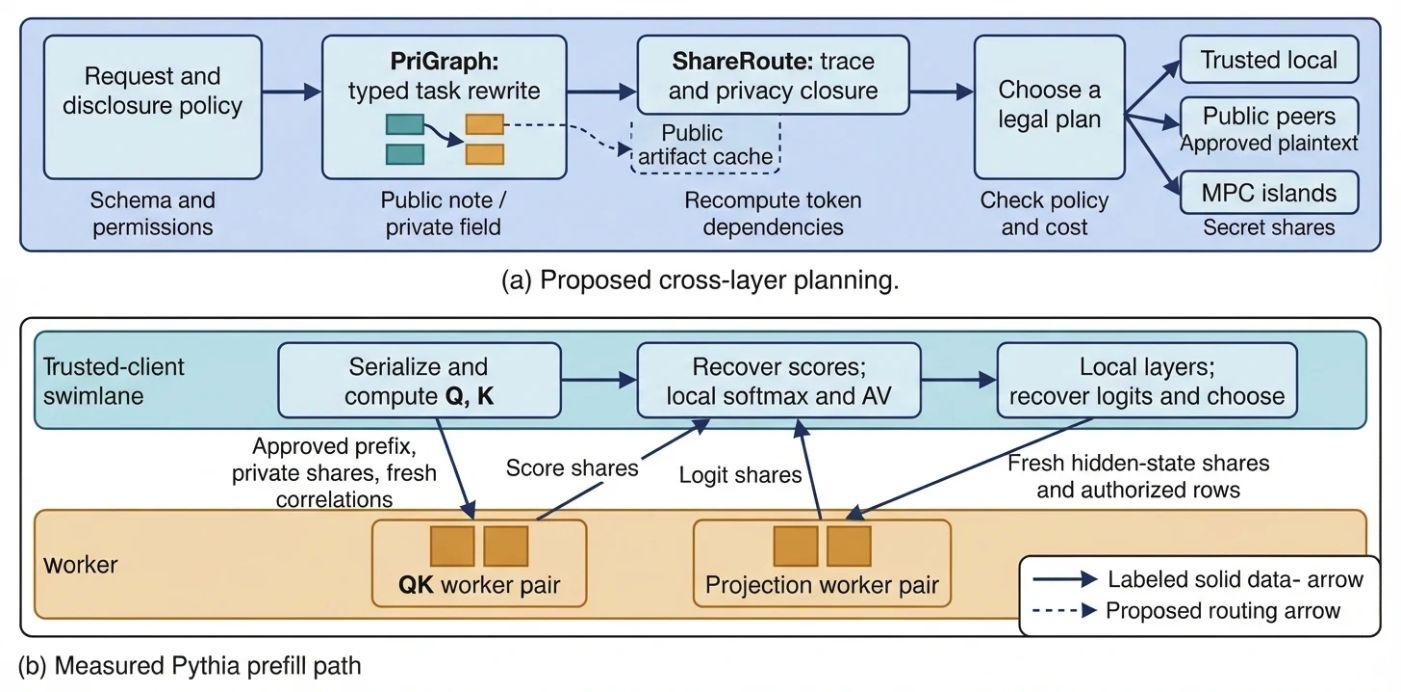
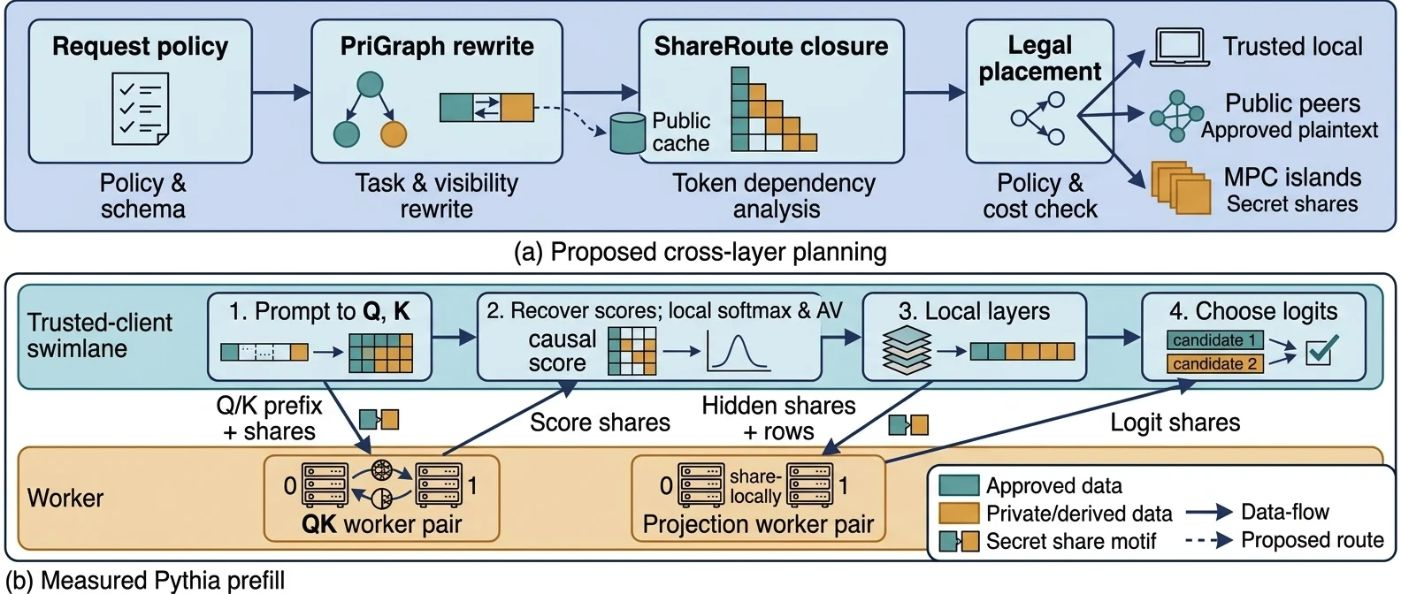
Use schematic glyphs in the system overview

diff --git a/figures/compiler.tex b/figures/compiler.tex
@@ -1,89 +1,205 @@
 \begin{tikzpicture}[
-  x=1cm,y=1cm,
-  font=\sffamily\fontsize{8}{9.4}\selectfont,
+  x=1cm,y=.96cm,
+  font=\sffamily\fontsize{8}{9.3}\selectfont,
   ink/.style={text=black!87},
   panel/.style={anchor=west,ink,font=\sffamily\bfseries\fontsize{9}{10}\selectfont},
-  detail/.style={ink,font=\sffamily\fontsize{7.4}{8.5}\selectfont},
+  detail/.style={ink,font=\sffamily\fontsize{7.3}{8.5}\selectfont},
   tile/.style={rounded corners=1.5pt,semithick,align=center,ink,inner sep=2pt},
-  stage/.style={tile,draw=routeLocal!80,fill=white,text width=2.43cm,minimum height=8mm},
-  route/.style={tile,minimum height=6.8mm,minimum width=2.05cm},
-  worker/.style={tile,draw=routeSecure!80,fill=white,minimum width=1.12cm,minimum height=3.6mm},
-  token/.style={tile,ink,font=\sffamily\fontsize{7}{8}\selectfont,
-                minimum width=5.5mm,minimum height=3.1mm,inner sep=.7pt},
-  flow/.style={semithick,-{Stealth[length=1.9mm]},draw=routeLocal},
+  stage/.style={tile,draw=routeLocal!80,fill=white,text width=2.43cm,minimum height=10mm},
+  stage label/.style={ink,font=\sffamily\bfseries\fontsize{8}{9.3}\selectfont},
+  route tile/.style={tile,minimum height=6.8mm,minimum width=2.14cm},
+  route label/.style={stage label,anchor=west,inner sep=1pt,
+                       font=\sffamily\bfseries\fontsize{7.3}{8.5}\selectfont},
+  glyph/.style={semithick,draw=routeLocal,rounded corners=.5pt},
+  approved/.style={glyph,draw=routePublic,fill=routePublic!24},
+  private/.style={glyph,draw=routeSecure,fill=routeSecure!17},
+  share/.style={glyph,draw=routeSecure!90!black,fill=white},
+  flow/.style={semithick,-{Stealth[length=1.8mm]},draw=routeLocal},
   plan/.style={flow,dashed},
-  wire/.style={flow,draw=routeSecure!94!black}]
+  wire/.style={flow,draw=routeSecure!94!black},
+  micro flow/.style={flow,-{Stealth[length=1.05mm]}},
+  pics/note/.style={code={
+    \draw[approved] (-.18,-.15) -- (-.18,.15) -- (.09,.15) -- (.18,.06) -- (.18,-.15) -- cycle;
+    \draw[glyph,draw=routePublic] (.09,.15) |- (.18,.06) (-.11,-.03) -- (.10,-.03) (-.11,-.09) -- (.07,-.09);
+  }},
+  pics/value/.style={code={
+    \draw[private] (-.18,-.15) rectangle (.18,.15);
+    \draw[routeSecure,thin] (-.13,-.08) -- (.01,.09) (-.04,-.09) -- (.11,.09) (.06,-.09) -- (.13,-.01);
+  }},
+  pics/share/.style={code={
+    \draw[share] (-.15,-.085) rectangle (.15,.085);
+    \draw[routeSecure,thin] (-.03,-.085) -- (.03,.085);
+  }},
+  pics/rack/.style={code={
+    \draw[share] (-.25,-.16) rectangle (.25,.16);
+    \draw[routeSecure,thin] (-.25,0) -- (.25,0) (-.07,.08) -- (.17,.08) (-.07,-.08) -- (.17,-.08);
+    \fill[routeSecure] (-.16,.08) circle (.023) (-.16,-.08) circle (.023);
+  }}]
 
 \node[panel] at (.04,0) {(a) Proposed cross-layer planning};
 \draw[rounded corners=2pt,semithick,draw=routeLocal!70,fill=routeLocal!5]
-  (0,-.25) rectangle (12.12,-2.41);
-
-\node[stage] (request) at (1.49,-.82) {\textbf{Request policy}\\Schema and rights};
-\node[stage,text width=2.50cm] (rewrite) at (4.54,-.82) {};
-\node[ink,font=\sffamily\bfseries\fontsize{8}{9.4}\selectfont] at (4.54,-.65) {PriGraph rewrite};
-\node[token,draw=routeSecure!70,fill=routeSecure!17] at (3.55,-.99) {Value};
-\node[token,draw=routePublic!70,fill=routePublic!16] at (4.15,-.99) {Note};
-\draw[flow,-{Stealth[length=1.35mm]}] (4.45,-.99) -- (4.64,-.99);
-\node[token,draw=routePublic!70,fill=routePublic!16] at (4.94,-.99) {Note};
-\node[token,draw=routeSecure!70,fill=routeSecure!17] at (5.54,-.99) {Value};
-\node[stage] (closure) at (7.59,-.82) {\textbf{ShareRoute}\\Operator closure};
-\node[stage] (choose) at (10.64,-.82) {\textbf{Select a legal plan}\\Policy and cost};
+  (0,-.25) rectangle (12.12,-2.49);
+\node[stage] (request) at (1.49,-.91) {};
+\node[stage] (rewrite) at (4.54,-.91) {};
+\node[stage] (closure) at (7.59,-.91) {};
+\node[stage] (choose) at (10.64,-.91) {};
 \draw[flow] (request) -- (rewrite);
 \draw[flow] (rewrite) -- (closure);
 \draw[flow] (closure) -- (choose);
+\node[stage label] at (1.49,-1.24) {Request policy};
+\node[stage label] at (4.54,-1.24) {PriGraph rewrite};
+\node[stage label] at (7.59,-1.24) {ShareRoute closure};
+\node[stage label] at (10.64,-1.24) {Select a legal plan};
 
-\node[tile,draw=routePublic!85,dashed,fill=routePublic!7,minimum width=2.96cm,minimum height=6.8mm]
-  (cache) at (2.33,-1.97) {\textbf{Public artifact cache}\\Keys from public data};
-\node[route,draw=routeLocal!80,fill=routeLocal!9]
-  (local) at (6.12,-1.97) {\textbf{Trusted local}\\Client compute};
-\node[route,draw=routePublic!85,fill=routePublic!10]
-  (public) at (8.48,-1.97) {\textbf{Public peers}\\Approved plaintext};
-\node[route,draw=routeSecure!90,fill=routeSecure!12]
-  (islands) at (10.84,-1.97) {\textbf{MPC islands}\\Secret shares};
-\draw[plan,draw=routePublic] (rewrite.south) -- (4.54,-1.38) -| (cache.north);
-\draw[plan] (choose.south) -- (10.64,-1.39) -| (local.north);
-\draw[plan,draw=routePublic] (8.48,-1.39) -- (public.north);
-\draw[plan,draw=routeSecure] (10.64,-1.39) -| (islands.north);
+\begin{scope}[shift={(1.49,-.78)}]
+  \draw[glyph,fill=routeLocal!8] (-.36,-.23) -- (-.36,.23) -- (.21,.23) -- (.36,.08) -- (.36,-.23) -- cycle;
+  \draw[glyph] (.21,.23) |- (.36,.08) (-.08,.085) -- (.13,.085) (-.08,-.035) -- (.18,-.035) (-.08,-.155) -- (.18,-.155);
+  \draw[routePublic,semithick] (-.25,.09) -- (-.21,.05) -- (-.14,.12)
+    (-.25,-.03) -- (-.21,-.07) -- (-.14,0) (-.25,-.15) -- (-.21,-.19) -- (-.14,-.12);
+\end{scope}
+\pic at (3.73,-.78) {value};
+\pic at (4.14,-.78) {note};
+\draw[micro flow] (4.37,-.78) -- (4.71,-.78);
+\pic at (4.94,-.78) {note};
+\pic at (5.35,-.78) {value};
+\begin{scope}[shift={(7.59,-.79)}]
+  \draw[micro flow] (-.65,.14) -- (-.22,.14);
+  \draw[micro flow] (-.71,-.12) -- (-.22,-.16);
+  \draw[micro flow] (-.11,.06) -- (.20,-.10);
+  \draw[micro flow] (-.04,-.16) -- (.20,-.16);
+  \draw[micro flow] (.36,-.16) -- (.64,-.16);
+  \draw[approved] (-.73,.14) circle (.075) (-.14,.14) circle (.075);
+  \draw[private] (-.78,-.19) rectangle (-.64,-.05)
+    (-.20,-.23) rectangle (-.06,-.09) (.21,-.23) rectangle (.35,-.09)
+    (.65,-.23) rectangle (.79,-.09);
+\end{scope}
+\begin{scope}[shift={(10.64,-.78)}]
+  \draw[glyph,fill=routeLocal!8] (-.19,.22) rectangle (.19,.01);
+  \draw[routePublic,semithick] (-.08,.12) -- (-.025,.07) -- (.08,.17);
+  \draw[glyph] (0,.01) -- (0,-.09) (-.55,-.09) -- (.55,-.09);
+  \draw[micro flow] (-.55,-.09) -- (-.55,-.24);
+  \draw[micro flow,draw=routePublic] (0,-.09) -- (0,-.24);
+  \draw[micro flow,draw=routeSecure] (.55,-.09) -- (.55,-.24);
+\end{scope}
 
-\node[panel] at (.04,-2.67) {(b) Measured Pythia prefill\enspace\mdseries (TCP loopback, selective route)};
+\node[route tile,draw=routePublic!85,dashed,fill=routePublic!7,minimum width=3.23cm]
+  (cache) at (2.33,-2.07) {};
+\node[route tile,draw=routeLocal!80,fill=routeLocal!9] (local) at (6.12,-2.07) {};
+\node[route tile,draw=routePublic!85,fill=routePublic!10] (public) at (8.48,-2.07) {};
+\node[route tile,draw=routeSecure!90,fill=routeSecure!12] (islands) at (10.84,-2.07) {};
+\draw[plan,draw=routePublic] (rewrite.south) -- (4.54,-1.53) -| (cache.north);
+\draw[plan] (choose.south) -- (10.64,-1.53) -| (local.north);
+\draw[plan,draw=routePublic] (8.48,-1.53) -- (public.north);
+\draw[plan,draw=routeSecure] (10.64,-1.53) -| (islands.north);
+\begin{scope}[shift={(1.13,-2.07)}]
+  \draw[approved] (-.18,.13) arc (180:360:.18 and .061) -- (.18,-.13)
+    arc (0:-180:.18 and .061) -- cycle;
+  \draw[approved] (0,.13) ellipse (.18 and .061);
+  \draw[routePublic,thin] (-.18,-.035) arc (180:360:.18 and .061);
+\end{scope}
+\node[route label] at (1.44,-2.07) {Public artifact cache};
+\begin{scope}[shift={(5.36,-2.07)}]
+  \draw[glyph,fill=white] (-.17,-.08) rectangle (.17,.13);
+  \draw[glyph,fill=routeLocal!25] (-.17,-.08) -- (-.23,-.15) -- (.23,-.15) -- (.17,-.08) -- cycle;
+\end{scope}
+\node[route label] at (5.64,-2.07) {Trusted local};
+\begin{scope}[shift={(7.76,-2.07)}]
+  \draw[routePublic,semithick] (-.16,-.09) -- (0,.12) -- (.16,-.09) -- cycle;
+  \draw[approved] (-.16,-.09) circle (.065) (0,.12) circle (.065) (.16,-.09) circle (.065);
+\end{scope}
+\node[route label] at (8.02,-2.07) {Public peers};
+\pic at (10.16,-2.07) {share};
+\node[route label] at (10.37,-2.07) {MPC islands};
+
+\node[panel] at (.04,-2.81) {(b) Measured Pythia prefill\enspace\mdseries (TCP loopback, selective route)};
 \draw[rounded corners=2pt,semithick,draw=routeLocal!70,fill=routeLocal!6]
-  (0,-2.93) rectangle (12.12,-4.18);
-\node[detail,anchor=west,text=routeLocal,font=\sffamily\bfseries\fontsize{7.4}{8.5}\selectfont]
-  at (.16,-3.09) {Trusted client and dealer};
-\node[stage] (qkInput) at (1.49,-3.68) {\textbf{Serialize prompt}\\Post-RoPE $Q,K$};
-\node[stage] (qkOutput) at (4.54,-3.68) {\textbf{Restore QK scores}\\Softmax and $AV$};
-\node[stage] (hidden) at (7.59,-3.68) {\textbf{Finish prefill}\\Quantize final state};
-\node[stage] (label) at (10.64,-3.68) {\textbf{Restore logits}\\Choose label};
+  (0,-3.07) rectangle (12.12,-4.58);
+\node[stage label,anchor=west,text=routeLocal] at (.16,-3.24) {Trusted client and dealer};
+\node[stage] (qkInput) at (1.49,-4.00) {};
+\node[stage] (qkOutput) at (4.54,-4.00) {};
+\node[stage] (hidden) at (7.59,-4.00) {};
+\node[stage] (label) at (10.64,-4.00) {};
 \draw[flow] (qkOutput) -- (hidden);
+\node[stage label] at (1.49,-4.33) {Prompt to $Q,K$};
+\node[stage label] at (4.54,-4.33) {Softmax and $AV$};
+\node[stage label] at (7.59,-4.33) {Finish prefill};
+\node[stage label] at (10.64,-4.33) {Choose label};
+
+\begin{scope}[shift={(1.49,-3.88)}]
+  \foreach \i in {0,1} {\draw[approved] ({-.89+.24*\i},-.12) rectangle ++(.19,.24);}
+  \draw[private] (-.41,-.12) rectangle ++(.19,.24);
+  \draw[routeSecure,thin] (-.38,-.075) -- (-.25,.075);
+  \draw[micro flow] (-.13,0) -- (.16,0);
+  \node[stage label,draw=routeLocal!75,rounded corners=.5pt,fill=routeLocal!10,inner sep=1.5pt] at (.38,0) {$Q$};
+  \node[stage label,draw=routeLocal!75,rounded corners=.5pt,fill=routeLocal!10,inner sep=1.5pt] at (.75,0) {$K$};
+\end{scope}
+\begin{scope}[shift={(4.54,-3.85)}]
+  \foreach \row in {0,...,3} {\foreach \col in {0,...,3} {
+    \ifnum\col>\row
+      \draw[black!23,line width=.25pt] ({-.62+.12*\col},{.245-.12*\row}) rectangle ++(.10,-.10);
+    \else
+      \draw[routeLocal!70,fill=routeLocal!26,line width=.25pt]
+        ({-.62+.12*\col},{.245-.12*\row}) rectangle ++(.10,-.10);
+    \fi
+  }}
+  \draw[micro flow] (-.02,0) -- (.30,0);
+  \foreach \i in {0,1,2} {\fill[routeLocal!85] ({.45+.14*\i},0) circle (.043);}
+\end{scope}
+\begin{scope}[shift={(7.59,-3.88)}]
+  \foreach \i in {0,1,2} {
+    \draw[glyph,fill=routeLocal!11] ({-.62+.065*\i},{-.19+.105*\i})
+      rectangle ++(.55,.17);
+  }
+  \draw[micro flow] (.16,0) -- (.45,0);
+  \node[stage label] at (.64,0) {$\widehat{h}$};
+\end{scope}
+\begin{scope}[shift={(10.64,-3.89)}]
+  \draw[glyph,fill=routeLocal!18] (-.55,.065) rectangle (.09,.18);
+  \draw[glyph,fill=routeLocal!44] (-.55,-.14) rectangle (.37,-.025);
+  \draw[routeLocal,semithick] (.49,-.09) -- (.56,-.15) -- (.69,-.035);
+\end{scope}
 
 \draw[rounded corners=2pt,semithick,draw=routeSecure!80,fill=routeSecure!9]
-  (.29,-5.24) rectangle (5.75,-6.15);
+  (.29,-5.62) rectangle (5.75,-6.48);
 \draw[rounded corners=2pt,semithick,draw=routeSecure!80,fill=routeSecure!9]
-  (6.38,-5.24) rectangle (11.84,-6.15);
-\node[ink] at (3.02,-5.42) {\textbf{QK worker pair}\enspace Single-head scores};
-\node[ink] at (9.11,-5.42) {\textbf{Projection worker pair}\enspace Share-local};
-\node[worker] (qa) at (1.49,-5.89) {Party 0};
-\node[worker] (qb) at (4.54,-5.89) {Party 1};
-\node[worker] at (7.59,-5.89) {Party 0};
-\node[worker] at (10.64,-5.89) {Party 1};
+  (6.38,-5.62) rectangle (11.84,-6.48);
+\node[stage label] at (3.02,-5.80) {QK worker pair};
+\node[stage label] at (9.11,-5.80) {Projection worker pair};
+\foreach \x/\p in {1.49/0,4.54/1,7.59/0,10.64/1} {
+  \pic at (\x,-6.20) {rack};
+  \node[detail,anchor=west] at ({\x+.27},-6.20) {\p};
+}
 \draw[semithick,draw=routeSecure!94!black,{Stealth[length=1.5mm]}-{Stealth[length=1.5mm]}]
-  (qa) -- node[detail,above,inner sep=1pt] {Masked openings} (qb);
+  (1.98,-6.20) -- node[detail,above,inner sep=1pt] {Masked openings} (4.27,-6.20);
+\node[detail] at (9.11,-6.18) {Share-local};
 
-\draw[wire] (qkInput.south) -- (1.49,-5.24);
-\draw[wire] (4.54,-5.24) -- (qkOutput.south);
-\draw[wire] (hidden.south) -- (7.59,-5.24);
-\draw[wire] (10.64,-5.24) -- (label.south);
-\node[detail,anchor=west,align=left] at (1.61,-4.64)
-  {Approved $Q,K$ prefix\\Private $Q,K$ shares\\Fresh correlation shares};
-\node[detail,anchor=west] at (4.66,-4.94) {Score shares};
-\node[detail,anchor=west,align=left] at (7.72,-4.58)
-  {Fresh hidden shares\\Authorized row IDs};
-\node[detail,anchor=east] at (10.54,-5.00) {Logit shares};
+\draw[wire] (qkInput.south) -- (1.49,-5.62);
+\draw[wire] (4.54,-5.62) -- (qkOutput.south);
+\draw[wire] (hidden.south) -- (7.59,-5.62);
+\draw[wire] (10.64,-5.62) -- (label.south);
+\draw[approved] (1.62,-4.85) rectangle ++(.19,.14);
+\node[detail,anchor=west] at (1.87,-4.78) {Approved $Q,K$ prefix};
+\pic[scale=.75] at (1.71,-5.04) {share};
+\node[detail,anchor=west] at (1.87,-5.04) {Private $Q,K$ shares};
+\pic[scale=.75] at (1.71,-5.30) {share};
+\node[detail,anchor=west] at (1.87,-5.30) {Fresh correlations};
+\pic[scale=.75] at (4.76,-5.28) {share};
+\node[detail,anchor=west] at (4.91,-5.28) {Score shares};
+\pic[scale=.75] at (7.83,-4.85) {share};
+\node[detail,anchor=west] at (7.99,-4.85) {Fresh hidden shares};
+\draw[glyph,fill=routeLocal!14] (7.73,-5.17) rectangle ++(.20,.12);
+\node[detail,anchor=west] at (7.99,-5.11) {Authorized row IDs};
+\pic[scale=.75] at (10.40,-5.40) {share};
+\node[detail,anchor=east] at (10.27,-5.40) {Logit shares};
 
-\draw[flow] (.17,-6.43) -- (.66,-6.43);
-\node[detail,anchor=west] at (.72,-6.43) {Computation or data flow};
-\draw[plan] (4.38,-6.43) -- (4.87,-6.43);
-\node[detail,anchor=west] at (4.93,-6.43) {Proposed routing or reuse};
-\draw[wire] (8.63,-6.43) -- (9.12,-6.43);
-\node[detail,anchor=west] at (9.18,-6.43) {Protected operator traffic};
+\pic[scale=.7] at (.26,-6.78) {note};
+\node[detail,anchor=west] at (.45,-6.78) {Approved note};
+\pic[scale=.7] at (2.57,-6.78) {value};
+\node[detail,anchor=west] at (2.75,-6.78) {Private value};
+\pic at (4.78,-6.78) {share};
+\node[detail,anchor=west] at (4.99,-6.78) {Secret share};
+\draw[plan] (6.87,-6.78) -- (7.33,-6.78);
+\node[detail,anchor=west] at (7.40,-6.78) {Proposed route};
+\draw[flow] (9.43,-6.78) -- (9.89,-6.78);
+\node[detail,anchor=west] at (9.96,-6.78) {Data flow};
 \end{tikzpicture}

diff --git a/main.tex b/main.tex
@@ -112,13 +112,10 @@ typed serializer and an instrumented Pythia attention layer
 \begin{figure}[t]
 \centering
 \input{figures/compiler}
-\Description{Panel a follows the policy from task rewriting to operator closure and proposed execution routes, with a public artifact cache. Panel b shows the trusted client sending approved Q and K vectors, private shares and fresh correlation shares to one worker pair. The pair returns score shares. After reconstructing scores and finishing prefill locally, the client sends fresh hidden-state shares to a separate projection pair and reconstructs its returned logit shares.}
-\caption{From policy to execution. (a) The proposed planner traces model
-calls after rewriting and selects a legal route. The note is approved
-and the value is private. (b) The measured selective Pythia path
-reconstructs single-head QK scores on the client, finishes prefill locally
-and sends fresh shares for output projection.
-Vector adaptation of a Gemini Nano Banana rendering.}
+\Description{Panel a uses a checklist, a token swap and a dependency graph to show the proposed planner. Panel b uses a triangular score grid, a stack of local layers and candidate score bars to show measured prefill. The trusted client sends approved Q and K vectors, private shares and fresh correlations to one worker pair, which returns score shares. The client then finishes prefill locally, sends fresh hidden-state shares to a separate projection pair and reconstructs its returned logits.}
+\caption{(a) Proposed planning. (b) Measured selective prefill. The client
+recovers one head's QK scores and shares the final state for projection.
+The grid and bars are schematic. Adapted from a Gemini Nano Banana rendering.}
 \label{fig:arch}
 \end{figure}
 

diff --git a/EVIDENCE_AND_REVIEW_AUDIT.md b/EVIDENCE_AND_REVIEW_AUDIT.md
@@ -325,16 +325,18 @@ Gemini Apps' Nano Banana rendered a visual reference from a two-panel
 specification. The first panel shows typed rewriting, privacy closure,
 optional public artifact reuse and policy-eligible routes. The second
 shows the measured selective Pythia prefill and separate QK and projection
-worker pairs. The vector figure follows the generated bands, stage
-cards and paired worker tiles. It uses the implemented share directions
-and places logit reconstruction after the projection.
+worker pairs. Nano Banana's second rendering adds a policy checklist,
+token glyphs, a causal score grid, layered prefill blocks, candidate
+scores and server icons. The vector figure adapts these illustrations
+to the implemented share directions and places logit reconstruction
+after projection. The grid and bars are schematic.
 
 Visual references included [RLHFless Fig. 5](https://arxiv.org/pdf/2602.22718#page=4),
 [FlexPipe Figs. 5–6](https://www.usenix.org/system/files/atc25-zhao-hairui.pdf),
 and [DistServe Fig. 6](https://www.usenix.org/system/files/osdi24-zhong-yinmin.pdf).
 The captured Nano Banana reference is saved at
-`figures/compiler-nano-banana.jpg` (1401 × 692, SHA-256
[1 lines of base64/hex data omitted]
+`figures/compiler-nano-banana.jpg` (1401 × 594, SHA-256
[1 lines of base64/hex data omitted]
 
 ## Record-layout illustration provenance
 
